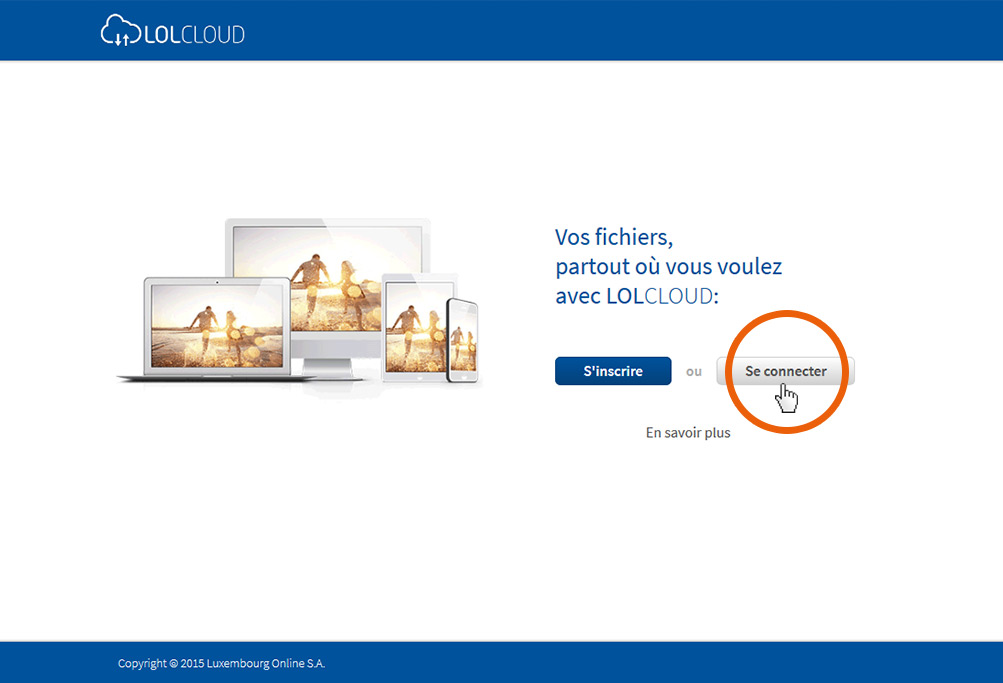
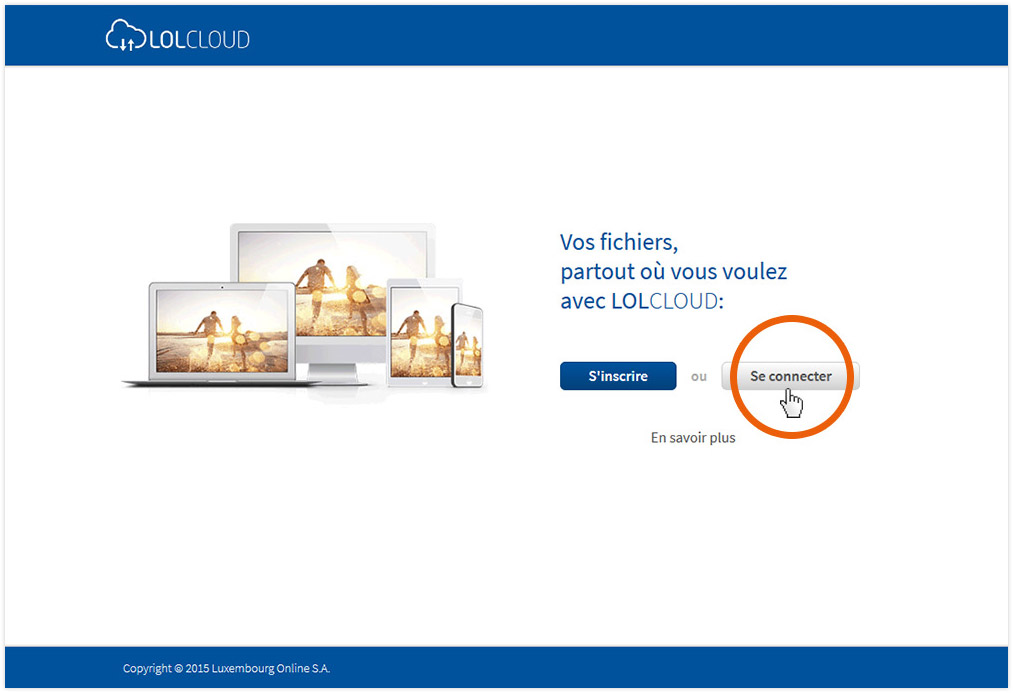
Ajout d'une ombre portée sur l'image de la capture d'écran dans l'aide/navigateur

diff --git a/public_html/aide.html b/public_html/aide.html
@@ -161,10 +161,10 @@
                                 <div style="margin-bottom: 30px; margin-top: 30px; clear: both;">
                                     <ol class="text">
                                         <li>
-                                            Vous pouvez vous connecter à votre compte LOLCloud en accédant directement au lien <a class="link bleu" href="http://lolcloud.internet.lu/" target="_blank">http://lolcloud.internet.lu/</a>
+                                            Vous pouvez vous connecter à votre compte LOLCloud directement via le lien <a class="link bleu" href="http://lolcloud.internet.lu/" target="_blank">http://lolcloud.internet.lu/</a>
                                         </li>
                                         <li>
-                                            Sinon, depuis le site du LOLCloud, vous pouvez y accéder en cliquant sur "se connecter" dans la page d'accueil ou en haut à droite, dans la barre de menu du site.
+                                            Depuis le site du LOLCloud, vous pouvez y accéder en cliquant sur "Se connecter" dans la page d'accueil ou en haut à droite, dans la barre de menu du site.
                                         </li>
                                         <li>
                                             Entrez ensuite l'identifiant ainsi que le mot de passe (qui vous ont été fournis) dans les champs respectifs pour vous connecter.
@@ -172,7 +172,7 @@
                                     </ol>
                                 </div>
                                 <div class="col-xs-12" style="margin-bottom: 40px;">
-                                    <a href="img/Aide/Windows/lolcloud_tut_nav1.jpg" rel="lightbox" class="guidePics" title="Cliquez sur l'icône nuage<br/>Entrez le nom d'utilisateur fourni<br/>Entrez le mot de passe fourni<br/>Cliquez sur 'Login'<br/>&nbsp;"><img class="col-xs-12" src="img/Aide/Windows/lolcloud_tut_nav1.jpg" alt="aide capture ecran homepage"></a>
+                                    <a href="img/Aide/Windows/lolcloud_tut_nav1.jpg" rel="lightbox" class="guidePics"><img class="col-xs-12" src="img/Aide/Windows/lolcloud_tut_nav1.jpg" alt="aide capture ecran homepage"></a>
                                 </div>
                             </div>
                             <!--FIN NAV-->
